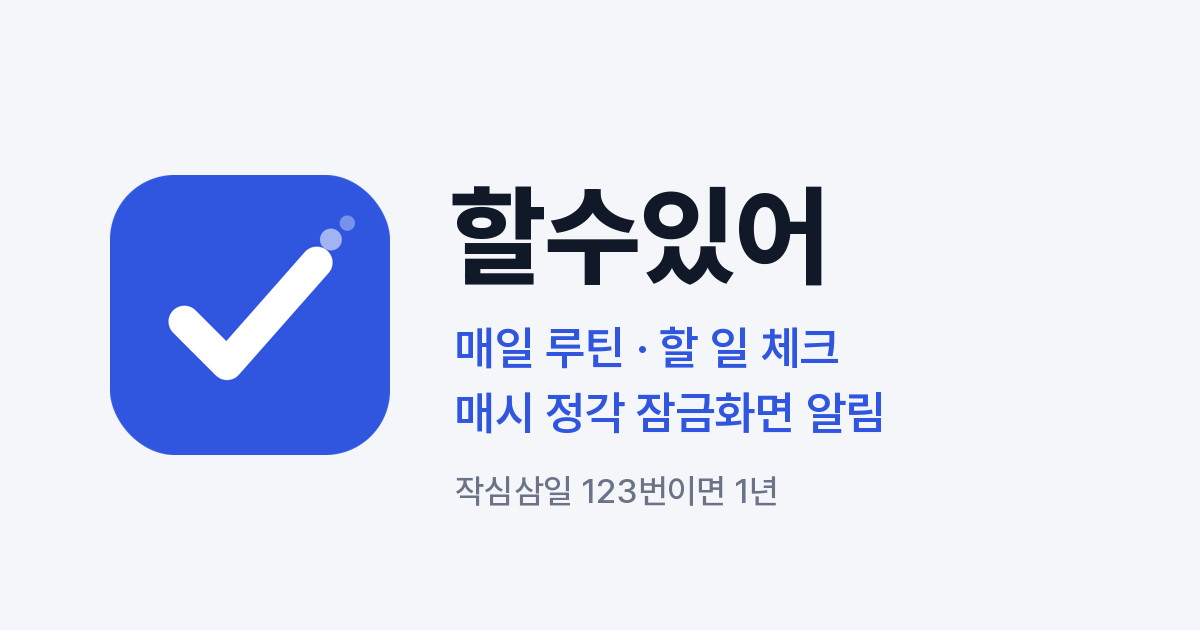
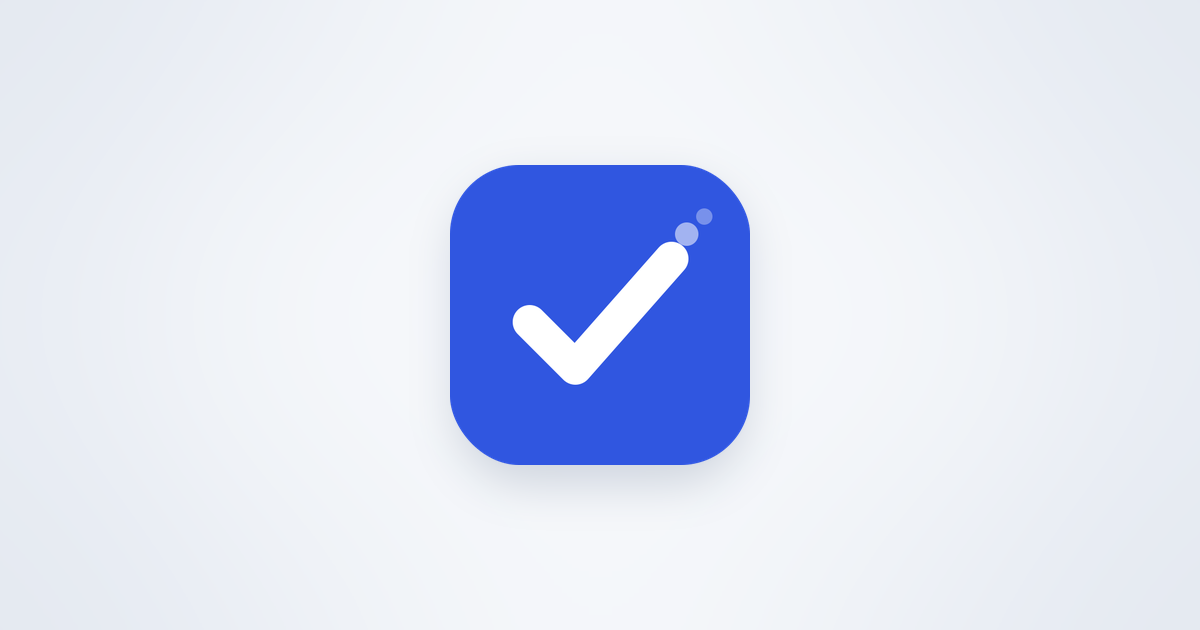
v40: 링크 미리보기를 간단하게 (가운데 로고, 짧은 제목·설명)
Claude-Session: https://claude.ai/code/session_01HVgt3STYn7PrWN9RzKs2oz

Changed region(s): [[0.37, 0.2413, 0.74, 0.8143], [0.0925, 0.2714, 0.3392, 0.7238]]

diff --git a/index.html b/index.html
@@ -8,13 +8,13 @@
 <meta name="theme-color" content="#0f131b" media="(prefers-color-scheme: dark)">
 <meta http-equiv="Content-Security-Policy" content="default-src 'self'; script-src 'self' 'unsafe-inline'; style-src 'self' 'unsafe-inline'; img-src 'self' data: blob:; font-src 'self'; connect-src 'self' https://api.github.com; worker-src 'self'; manifest-src 'self'; object-src 'none'; base-uri 'none'; form-action 'none'">
 <title>할수있어</title>
-<meta name="description" content="매일 루틴과 할 일을 체크하고, 매시 정각과 정한 시각에 잠금화면으로 알려주는 습관 앱. 작심삼일 123번이면 1년!">
+<meta name="description" content="매일 루틴·할 일 체크와 정각 알림을 한곳에서 관리하는 습관 앱">
 <meta property="og:type" content="website">
 <meta property="og:site_name" content="할수있어">
-<meta property="og:title" content="할수있어 · 매일 루틴 체크 + 정각 알림">
-<meta property="og:description" content="매일 루틴과 할 일을 체크하고, 매시 정각과 정한 시각에 잠금화면으로 알려주는 습관 앱. 작심삼일 123번이면 1년!">
+<meta property="og:title" content="할수있어">
+<meta property="og:description" content="매일 루틴·할 일 체크와 정각 알림을 한곳에서 관리하는 습관 앱">
 <meta property="og:url" content="https://taichen2k.github.io/candoit/">
-<meta property="og:image" content="https://taichen2k.github.io/candoit/og.png">
+<meta property="og:image" content="https://taichen2k.github.io/candoit/og.png?v=2">
 <meta property="og:image:width" content="1200">
 <meta property="og:image:height" content="630">
 <meta property="og:locale" content="ko_KR">
@@ -307,7 +307,7 @@ footer{text-align:center;font-size:12px;color:var(--muted);padding-top:8px}
   </div>
 
   <div class="viewnote" id="viewNote" hidden></div>
-  <footer>© 2026 티제이컴퍼니. All rights reserved. · v<span class="ver">39</span></footer>
+  <footer>© 2026 티제이컴퍼니. All rights reserved. · v<span class="ver">40</span></footer>
 </div>
 
 <div class="bar" id="bar">
@@ -478,11 +478,11 @@ footer{text-align:center;font-size:12px;color:var(--muted);padding-top:8px}
     <div class="group">
       <h3>앱 정보</h3>
       <div class="card">
-        <div class="item"><div class="lbl">버전</div><span>v<span class="ver">39</span></span></div>
+        <div class="item"><div class="lbl">버전</div><span>v<span class="ver">40</span></span></div>
         <div class="item"><div class="lbl">저장 위치<small>기록은 이 기기 안에만 저장돼요</small></div></div>
       </div>
     </div>
-    <footer>© 2026 티제이컴퍼니. All rights reserved. · v<span class="ver">39</span></footer>
+    <footer>© 2026 티제이컴퍼니. All rights reserved. · v<span class="ver">40</span></footer>
   </div>
 </section>
 
@@ -498,7 +498,7 @@ footer{text-align:center;font-size:12px;color:var(--muted);padding-top:8px}
 
 <script>
 (function(){
-const VERSION='39';
+const VERSION='40';
 const VAPID_PUBLIC='BGxKcpJe7sxd7D26LaaiNWJqxqziBnxMb_9GyH5UHJlgHYFBX4-ukOOUQ3s08PWZVT2Ldz8UY85QHK9ISBQGgto';
 const $=id=>document.getElementById(id);
 const pad=n=>String(n).padStart(2,'0');

diff --git a/sw.js b/sw.js
@@ -1,5 +1,5 @@
 /* 할수있어 서비스워커: 홈 화면 설치 + 잠금화면 알림 */
-const CACHE='candoit-v39';
+const CACHE='candoit-v40';
 const SHELL=['./','./index.html','./manifest.webmanifest','./fonts/pretendard.woff2','./icon-192.png','./icon-512.png','./icon-180.png','./badge-96.png','./favicon.svg'];
 self.addEventListener('install',e=>{e.waitUntil(caches.open(CACHE).then(c=>c.addAll(SHELL)).catch(()=>{}).then(()=>self.skipWaiting()));});
 self.addEventListener('activate',e=>{e.waitUntil(caches.keys().then(ks=>Promise.all(ks.filter(k=>k!==CACHE).map(k=>caches.delete(k)))).then(()=>self.clients.claim()));});
